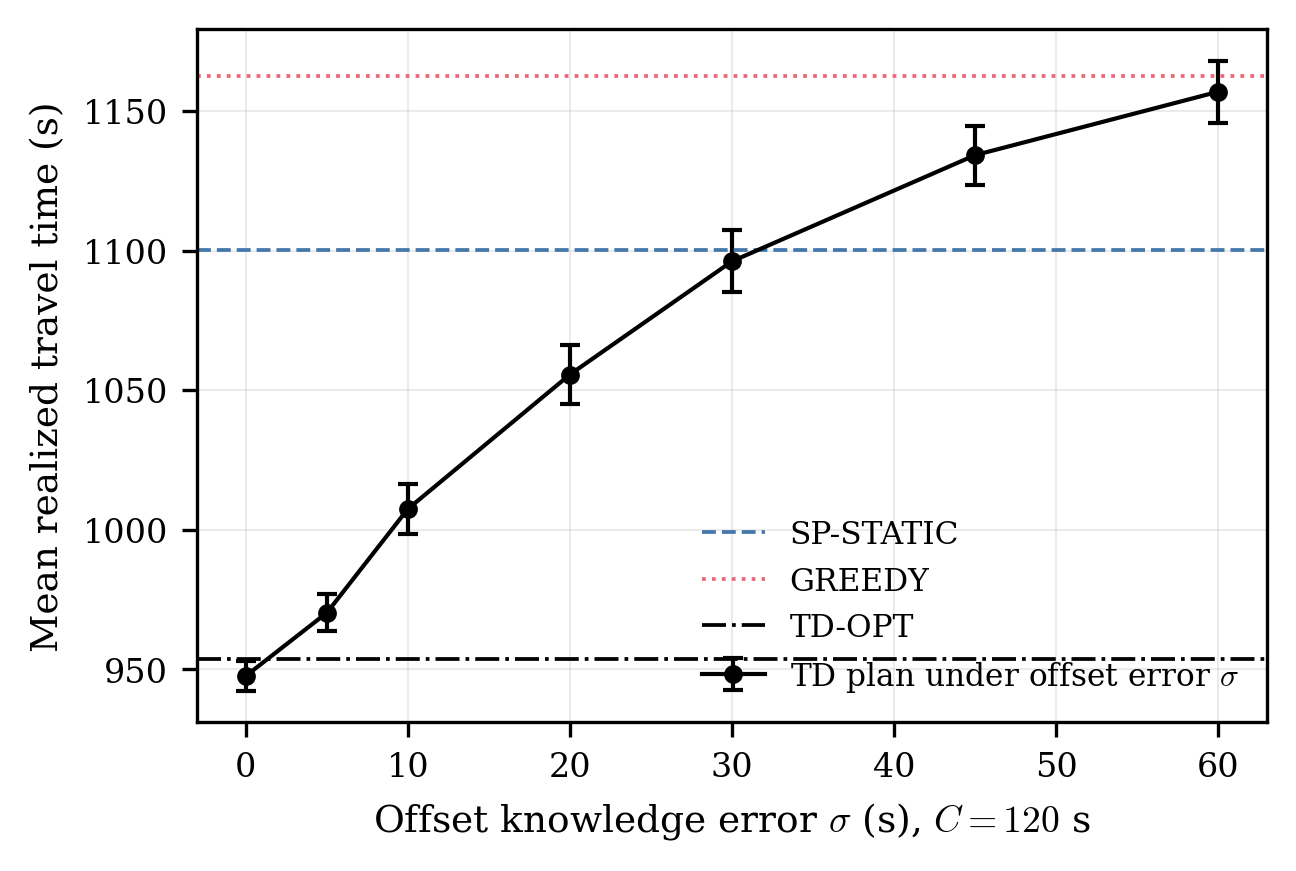
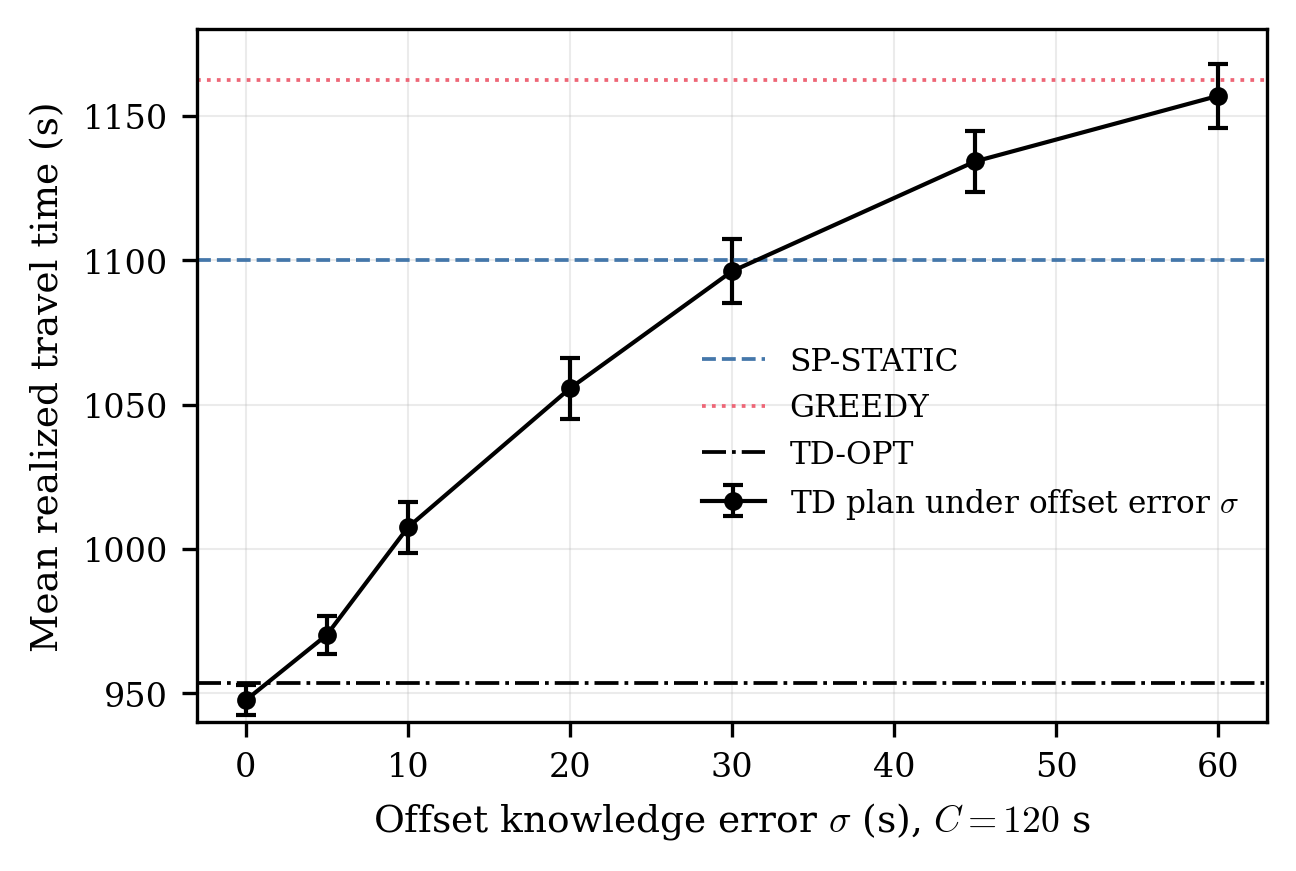
feat: add Gini-based heterogeneity analysis and update author list
- add gini_grid.py / gini_verify.py: Gini mean-difference sweep across
  uniform, triangular, and lognormal link-time families
- add lak_monotonicity.py and p4_diagnostic.py with their result JSONs
- make_figures.py: fig3a now plots GREEDY-SP advantage against the Gini
  mean difference from gini_grid_results.csv; fix fig2 legend and y-limits
- extend_lookahead.py: guard the driver under __main__ so it is importable
- README.md / CITATION.cff: add co-authors Zheng Chen, Xing Liu, Zeshui Xu

diff --git a/extend_lookahead.py b/extend_lookahead.py
@@ -59,48 +59,49 @@ def mean_ci(xs):
     var=sum((x-m)**2 for x in xs)/(n-1)
     return m,1.96*math.sqrt(var/n)
 
-C,gs,gl=120.0,40.0,20.0
-tm=sr.Timing(C=C,gs=gs,gl=gl,straight_first=True,rtor=True)
-N=8; orig=(N-1,0); dest=(0,N-1)
-deps=[q*C/8 for q in range(8)]
-ks=[1,2,3,4,5]; sigmas=[0,5,10]
-res={(k,s):[] for k in ks for s in sigmas}
-opt=[]; stat=[]
-for i in range(40):
-    rng=random.Random(1000+i)
-    net=sr.Net(N,rng,C=C,link_lo=40.0,link_hi=90.0,offset_mode="random")
-    V=static_V(net,tm,dest)
-    p_st=sr.static_route(net,tm,orig,dest,use_ewait=True)
-    prng=random.Random(70000+i)
-    pofs={s:({kk:(o+prng.uniform(-s,s))%C for kk,o in net.offset.items()} if s>0 else net.offset) for s in sigmas}
-    for t0 in deps:
-        stat.append(sr.evaluate(net,tm,p_st,t0)["time"])
-        op,_=sr.td_route(net,tm,orig,dest,t0)
-        opt.append(sr.evaluate(net,tm,op,t0)["time"])
-        for k in ks:
-            for s in sigmas:
-                T=la_route_noisy(net,tm,orig,dest,t0,k,V,pofs[s])-t0
-                res[(k,s)].append(T)
-sm,_=mean_ci(stat); om,_=mean_ci(opt)
-sgap,_=mean_ci([(a-b)/b*100 for a,b in zip(stat,opt)])
-print(f"SP-STATIC gap {sgap:.2f}%   TD-OPT {om:.1f}s")
-print(f"{'k':>3s} " + " ".join(f"sigma={s:>2d}gap%" for s in sigmas))
-curves={s:[] for s in sigmas}
-for k in ks:
-    row=f"{k:3d} "
-    for s in sigmas:
-        g,gci=mean_ci([(a-b)/b*100 for a,b in zip(res[(k,s)],opt)])
-        curves[s].append((k,g,gci))
-        row+=f"  {g:5.2f}+-{gci:4.2f}"
-    print(row)
-plt.figure(figsize=(6.5,4))
-plt.axhline(sgap,color="k",linestyle="--",linewidth=1)
-plt.text(4.4,sgap," SP-STATIC",fontsize=8,va="bottom")
-for s,mk in ((0,"o"),(5,"s"),(10,"^")):
-    xs=[c[0] for c in curves[s]]; ys=[c[1] for c in curves[s]]; es=[c[2] for c in curves[s]]
-    plt.errorbar(xs,ys,yerr=es,marker=mk,label=f"countdown error sigma={s}s")
-plt.xlabel("Lookahead depth k"); plt.ylabel("Gap vs TD-OPT (%)")
-plt.title("Depth and accuracy of phase information (hetero, N=8, n=320)")
-plt.legend(fontsize=8); plt.xticks(ks); plt.tight_layout()
-plt.savefig("/home/claude/fig6_lookahead_noisy.png",dpi=150)
-print("saved fig6")
+if __name__ == "__main__":
+    C,gs,gl=120.0,40.0,20.0
+    tm=sr.Timing(C=C,gs=gs,gl=gl,straight_first=True,rtor=True)
+    N=8; orig=(N-1,0); dest=(0,N-1)
+    deps=[q*C/8 for q in range(8)]
+    ks=[1,2,3,4,5]; sigmas=[0,5,10]
+    res={(k,s):[] for k in ks for s in sigmas}
+    opt=[]; stat=[]
+    for i in range(40):
+        rng=random.Random(1000+i)
+        net=sr.Net(N,rng,C=C,link_lo=40.0,link_hi=90.0,offset_mode="random")
+        V=static_V(net,tm,dest)
+        p_st=sr.static_route(net,tm,orig,dest,use_ewait=True)
+        prng=random.Random(70000+i)
+        pofs={s:({kk:(o+prng.uniform(-s,s))%C for kk,o in net.offset.items()} if s>0 else net.offset) for s in sigmas}
+        for t0 in deps:
+            stat.append(sr.evaluate(net,tm,p_st,t0)["time"])
+            op,_=sr.td_route(net,tm,orig,dest,t0)
+            opt.append(sr.evaluate(net,tm,op,t0)["time"])
+            for k in ks:
+                for s in sigmas:
+                    T=la_route_noisy(net,tm,orig,dest,t0,k,V,pofs[s])-t0
+                    res[(k,s)].append(T)
+    sm,_=mean_ci(stat); om,_=mean_ci(opt)
+    sgap,_=mean_ci([(a-b)/b*100 for a,b in zip(stat,opt)])
+    print(f"SP-STATIC gap {sgap:.2f}%   TD-OPT {om:.1f}s")
+    print(f"{'k':>3s} " + " ".join(f"sigma={s:>2d}gap%" for s in sigmas))
+    curves={s:[] for s in sigmas}
+    for k in ks:
+        row=f"{k:3d} "
+        for s in sigmas:
+            g,gci=mean_ci([(a-b)/b*100 for a,b in zip(res[(k,s)],opt)])
+            curves[s].append((k,g,gci))
+            row+=f"  {g:5.2f}+-{gci:4.2f}"
+        print(row)
+    plt.figure(figsize=(6.5,4))
+    plt.axhline(sgap,color="k",linestyle="--",linewidth=1)
+    plt.text(4.4,sgap," SP-STATIC",fontsize=8,va="bottom")
+    for s,mk in ((0,"o"),(5,"s"),(10,"^")):
+        xs=[c[0] for c in curves[s]]; ys=[c[1] for c in curves[s]]; es=[c[2] for c in curves[s]]
+        plt.errorbar(xs,ys,yerr=es,marker=mk,label=f"countdown error sigma={s}s")
+    plt.xlabel("Lookahead depth k"); plt.ylabel("Gap vs TD-OPT (%)")
+    plt.title("Depth and accuracy of phase information (hetero, N=8, n=320)")
+    plt.legend(fontsize=8); plt.xticks(ks); plt.tight_layout()
+    plt.savefig("/home/claude/fig6_lookahead_noisy.png",dpi=150)
+    print("saved fig6")

diff --git a/p4_diagnostic.py b/p4_diagnostic.py
@@ -1,0 +1,71 @@
+"""Diagnostic for the coupling bound (Prop: coupled sensitivity to offset error).
+For each VOI instance: plan under o_hat, execute path p_hat; trace both timelines
+along p_hat; classify crossings matched/mismatched; check
+|g_hat - g| <= sigma + sum r_m * M and the matched-only case |g_hat - g| <= sigma."""
+import random, math, json
+import signal_routing as sr
+
+C, gs, gl = 120.0, 40.0, 20.0
+tm = sr.Timing(C=C, gs=gs, gl=gl, straight_first=True, rtor=True)
+N = 8; orig = (N-1, 0); dest = (0, N-1); deps = [k*C/8 for k in range(8)]
+SIGMAS = [5, 10, 20, 30, 45, 60]
+
+def trace(net, path, t0):
+    """per-crossing (movement, arrival, wait, passage, red_dur) under net offsets."""
+    u, v = path[0]
+    t = t0 + net.link_t(u, v)
+    rec = []
+    for i in range(1, len(path)):
+        pu, pv = path[i-1]; cu, cv = path[i]
+        h = (pv[0]-pu[0], pv[1]-pu[1]); d = (cv[0]-cu[0], cv[1]-cu[1])
+        m = sr.move_type(h, d)
+        ax = sr.axis_of(h)
+        wt = tm.wait(t, net.offset[cu], ax, m)
+        g = tm._window(ax, m)[1] if hasattr(tm, "_window") else None
+        # red duration for this movement
+        if m == "R" and tm.rtor: rdur = 0.0
+        elif m == "L": rdur = C - gl
+        else: rdur = C - gs
+        rec.append((m, t, wt, t + wt, rdur))
+        t = t + wt + net.t_cross + net.link_t(cu, cv)
+    return rec, t - t0
+
+viol = 0; total = 0; zero_mm = 0; zero_mm_maxdev = 0.0
+tight = []; mmrate = {}
+for sig in SIGMAS:
+    mm_cross = 0; n_cross = 0
+    for i in range(40):
+        rng = random.Random(1000+i)
+        net = sr.Net(N, rng, C=C, link_lo=40.0, link_hi=90.0, offset_mode="random")
+        prng = random.Random(50000+1000*sig+i)
+        net_hat = sr.Net(N, random.Random(1000+i), C=C, link_lo=40.0, link_hi=90.0, offset_mode="random")
+        for node in net_hat.offset:
+            net_hat.offset[node] = (net.offset[node] + prng.uniform(-sig, sig)) % C
+        for t0 in deps:
+            p_hat, _ = sr.td_route(net_hat, tm, orig, dest, t0)
+            rec_h, g_hat = trace(net_hat, p_hat, t0)
+            rec_t, g_true = trace(net, p_hat, t0)
+            dev = abs(g_hat - g_true)
+            bound = sig; M = 0
+            for (mh, ah, wh, ph, rh), (mt, at_, wt_, pt, rt) in zip(rec_h, rec_t):
+                green_h = wh <= 1e-9; green_t = wt_ <= 1e-9
+                matched = (green_h and green_t) or ((not green_h) and (not green_t) and abs(ph - pt) <= sig + 1e-6)
+                if not matched:
+                    M += 1; bound += rh
+                    mm_cross += 1
+                n_cross += 1
+            total += 1
+            if dev > bound + 1e-6: viol += 1
+            if M == 0:
+                zero_mm += 1
+                zero_mm_maxdev = max(zero_mm_maxdev, dev)
+            else:
+                tight.append(dev / bound)
+    mmrate[sig] = mm_cross / n_cross
+print(f"instances: {total}  bound violations: {viol}")
+print(f"zero-mismatch instances: {zero_mm}  max |g_hat-g| there: {zero_mm_maxdev:.3f} s (must be <= sigma)")
+ts = sorted(tight)
+print(f"with mismatches: n={len(tight)}  tightness dev/bound median {ts[len(ts)//2]:.3f}  p90 {ts[int(.9*len(ts))]:.3f}  max {ts[-1]:.3f}")
+for s in SIGMAS: print(f"  sigma={s:2d}: mismatch rate per crossing {mmrate[s]:.4f}  (heuristic 2*sigma/C = {2*s/C:.4f})")
+json.dump({"violations": viol, "total": total, "zero_mm": zero_mm,
+           "zero_mm_maxdev": zero_mm_maxdev, "mmrate": mmrate}, open("p4_diag.json","w"))

diff --git a/gini_grid.py b/gini_grid.py
@@ -1,0 +1,78 @@
+"""Grid-level test of the Gini law: greedy-vs-static advantage against Delta
+for three link-time families matched in mean (65 s). Prediction: one line,
+slope about -J/2 per unit Delta (J=14 on the 8x8 corner trip)."""
+import random, math
+import signal_routing as sr
+
+C, gs, gl, MU = 120.0, 40.0, 20.0, 65.0
+tm = sr.Timing(C=C, gs=gs, gl=gl, straight_first=True, rtor=True)
+N = 8; orig = (N-1, 0); dest = (0, N-1); deps = [k*C/8 for k in range(8)]
+
+def lognormal_params(mean, sd):
+    s2 = math.log(1 + (sd/mean)**2)
+    return math.log(mean) - s2/2, math.sqrt(s2)
+
+def make_sampler(fam, par, rng):
+    if fam == "uniform":    return lambda: MU + rng.uniform(-par, par)
+    if fam == "triangular": return lambda: rng.triangular(MU-par, MU+par)
+    if fam == "lognormal":
+        m, s = lognormal_params(MU, par)
+        return lambda: max(5.0, rng.lognormvariate(m, s))
+    raise ValueError(fam)
+
+def delta_of(fam, par, rng, n=400000):
+    f = make_sampler(fam, par, rng)
+    return sum(abs(f()-f()) for _ in range(n)) / n
+
+def mean_ci(xs):
+    n=len(xs); m=sum(xs)/n
+    v=sum((x-m)**2 for x in xs)/(n-1)
+    return m, 1.96*math.sqrt(v/n)
+
+def net_with_sampler(seed, fam, par):
+    rng = random.Random(seed)
+    net = sr.Net(N, rng, C=C, link_lo=MU, link_hi=MU, offset_mode="random")
+    srng = random.Random(seed + 777)
+    f = make_sampler(fam, par, srng)
+    for k in net.tau: net.tau[k] = f()
+    return net
+
+cells = [("uniform",[5,10,15,20,25]), ("triangular",[8,15,22,30,37]),
+         ("lognormal",[4,8,12,16,20])]
+print("family        par    Delta    adv(s)   ci")
+rows=[]
+for fam, pars in cells:
+    for par in pars:
+        drng = random.Random(hash((fam,par)) % 10**6)
+        Delta = delta_of(fam, par, drng)
+        adv=[]
+        for i in range(80):
+            net = net_with_sampler(1000+i, fam, par)
+            p = sr.static_route(net, tm, orig, dest, use_ewait=True)
+            for t0 in deps:
+                a = sr.evaluate(net, tm, p, t0)["time"]
+                b = sr.evaluate(net, tm, sr.greedy_route(net, tm, orig, dest, t0), t0)["time"]
+                adv.append(a-b)
+        m, ci = mean_ci(adv)
+        rows.append((fam, Delta, m, ci))
+        print(f"{fam:12s} {par:5.0f}  {Delta:6.2f}  {m:8.2f}  {ci:5.2f}")
+
+import csv
+w=csv.writer(open("gini_grid_results.csv","w")); w.writerow(["family","Delta","adv","ci"])
+for r in rows: w.writerow(r)
+# pooled OLS of advantage on Delta across all families
+xs=[r[1] for r in rows]; ys=[r[2] for r in rows]
+mx=sum(xs)/len(xs); my=sum(ys)/len(ys)
+sl=sum((x-mx)*(y-my) for x,y in zip(xs,ys))/sum((x-mx)**2 for x in xs)
+ic=my-sl*mx
+# per-family slopes
+for fam,_ in cells:
+    fx=[r[1] for r in rows if r[0]==fam]; fy=[r[2] for r in rows if r[0]==fam]
+    fmx=sum(fx)/len(fx); fmy=sum(fy)/len(fy)
+    sxx=sum((x-fmx)**2 for x in fx)
+    fsl=sum((x-fmx)*(y-fmy) for x,y in zip(fx,fy))/sxx
+    fic=fmy-fsl*fmx
+    res=[y-(fic+fsl*x) for x,y in zip(fx,fy)]
+    se=math.sqrt(sum(e*e for e in res)/(len(fx)-2)/sxx)
+    print(f"slope[{fam}] = {fsl:.3f} +- {1.96*se:.3f} per unit Delta")
+print(f"pooled slope = {sl:.3f} per unit Delta (prediction -J/2 = -7.0), intercept {ic:.2f}")

diff --git a/make_figures.py b/make_figures.py
@@ -69,33 +69,26 @@ for m,c,ls in (("SP-STATIC","st","--"),("GREEDY","gr",":"),("TD-OPT","opt","-.")
     ax.axhline(t,color=COL[c],ls=ls,lw=.9,label=m)
 ax.set_xlabel("Offset knowledge error $\\sigma$ (s), $C=120$ s")
 ax.set_ylabel("Mean realized travel time (s)")
-ax.legend(loc="lower right")
+ax.set_ylim(940,1180)
+ax.legend(loc="lower right", bbox_to_anchor=(1.0, 0.25))
 fig.savefig("figures/fig2_voi.png"); plt.close(fig)
 
 # Fig 3: scaling, two panels (a heterogeneity, b grid size)
-spreads=[0,5,10,15,20,25]; pts=[]
-for h in spreads:
-    adv=[]
-    for i in range(40):
-        rng=random.Random(1000+i)
-        net=sr.Net(N,rng,C=C,link_lo=65.0-h,link_hi=65.0+h,offset_mode="random")
-        p=sr.static_route(net,tm,orig,dest,use_ewait=True)
-        for t0 in deps:
-            a=sr.evaluate(net,tm,p,t0)["time"]
-            b=sr.evaluate(net,tm,sr.greedy_route(net,tm,orig,dest,t0),t0)["time"]
-            adv.append(a-b)
-    pts.append((h,)+mean_ci(adv))
+rows2=[]
+import csv as _csv
+rows2=list(_csv.DictReader(open("gini_grid_results.csv")))
 fig,(a1,a2)=plt.subplots(1,2,figsize=(6.9,2.9))
-a1.errorbar([p[0] for p in pts],[p[1] for p in pts],yerr=[p[2] for p in pts],
-            marker="o",ms=4,lw=1,capsize=2.5,color=COL["la"],label="simulated advantage")
-mh=sum(p[0] for p in pts)/6; my=sum(p[1] for p in pts)/6
-sl=sum((p[0]-mh)*(p[1]-my) for p in pts)/sum((p[0]-mh)**2 for p in pts)
-a1.plot([0,25],[my+sl*(x-mh) for x in (0,25)],ls="--",lw=1,color=COL["opt"],
-        label=f"OLS slope ${sl:.2f}$ s/s")
-a1.plot([0,25],[my-14/3*(x-mh) for x in (0,25)],ls=":",lw=1,color=COL["st"],
-        label="predicted $-J/3=-4.67$")
+sty={"uniform":("#4477AA","o"),"triangular":("#228833","s"),"lognormal":("#CCBB44","^")}
+for fam,(c,mk) in sty.items():
+    fx=[float(r["Delta"]) for r in rows2 if r["family"]==fam]
+    fy=[float(r["adv"]) for r in rows2 if r["family"]==fam]
+    fe=[float(r["ci"]) for r in rows2 if r["family"]==fam]
+    a1.errorbar(fx,fy,yerr=fe,fmt=mk,ms=4,elinewidth=1,capsize=2.5,color=c,label=fam)
+ax_=[float(r["Delta"]) for r in rows2]; ay_=[float(r["adv"]) for r in rows2]
+cx=sum(ax_)/len(ax_); cy=sum(ay_)/len(ay_)
+a1.plot([2,23],[cy-7*(x-cx) for x in (2,23)],ls=":",lw=1,color="#000000",label="prediction slope $-J/2$")
 a1.axhline(0,color="k",lw=.7)
-a1.set_xlabel("Link-time half-width $h$ (s)")
+a1.set_xlabel("Gini mean difference $\\Delta$ (s)")
 a1.set_ylabel("GREEDY $-$ SP-STATIC (s)")
 a1.legend(loc="lower left")
 grids=[5,8,12]
@@ -112,7 +105,6 @@ for ax_,lab in ((a1,"a"),(a2,"b")):
     ax_.text(0.02,1.03,lab,transform=ax_.transAxes,fontweight="bold",fontsize=10)
 fig.tight_layout()
 fig.savefig("figures/fig3_scaling.png"); plt.close(fig)
-print("fig3 slope",round(sl,3))
 
 # Fig 4: lookahead, two panels (a depth sigma=0; b depth x accuracy)
 het=[16.22,9.65,5.33,3.55,2.76,1.38]; hetci=[1.07,.93,.69,.57,.50,.40]

diff --git a/gini_verify.py b/gini_verify.py
@@ -1,0 +1,40 @@
+"""Verify the general ladder law A = rho(1-rho)r/2 - Delta/2 (Delta = Gini mean
+difference E|X-Y|) beyond the uniform family. Distributions matched in mean."""
+import random, math
+C, r, mu = 120.0, 80.0, 65.0
+rho = r / C
+N = 2_000_000
+rng = random.Random(7)
+
+def lognormal_params(mean, sd):
+    s2 = math.log(1 + (sd / mean) ** 2)
+    return math.log(mean) - s2 / 2, math.sqrt(s2)
+
+MLN, SLN = lognormal_params(mu, 15.0)
+dists = {
+    "uniform h=10":    lambda: mu + rng.uniform(-10, 10),
+    "uniform h=25":    lambda: mu + rng.uniform(-25, 25),
+    "triangular h=15": lambda: rng.triangular(mu - 15, mu + 15),
+    "lognormal sd=15": lambda: rng.lognormvariate(MLN, SLN),
+}
+print(f"rho={rho:.4f}  rho(1-rho)r/2={rho*(1-rho)*r/2:.4f}")
+for name, F in dists.items():
+    sA = sD = sA2 = 0.0
+    for _ in range(N):
+        x, y = F(), F()
+        red1, red2 = rng.random() < rho, rng.random() < rho
+        res1, res2 = rng.uniform(0, r), rng.uniform(0, r)
+        cmin, csec = (x, y) if x <= y else (y, x)
+        red_c, res_c = (red1, res1) if x <= y else (red2, res2)
+        static = cmin + (res_c if red_c else 0.0)
+        if not red1:   greedy = x
+        elif not red2: greedy = y
+        else:          greedy = res1 + x
+        a = static - greedy
+        d = abs(x - y)
+        sA += a; sA2 += a * a; sD += d
+    A_sim = sA / N
+    se = math.sqrt((sA2 / N - A_sim ** 2) / N) * 1.96
+    Delta = sD / N
+    A_pred = rho * (1 - rho) * r / 2 - Delta / 2
+    print(f"{name:18s} Delta={Delta:7.3f}  A_sim={A_sim:7.4f}+-{se:.4f}  A_pred={A_pred:7.4f}  |diff|={abs(A_sim-A_pred):.4f}")

diff --git a/lak_monotonicity.py b/lak_monotonicity.py
@@ -1,0 +1,28 @@
+"""Pointwise monotonicity audit of rolling LA-k (sigma = 0).
+Fresh recompute; checks LA-k >= TD-OPT per instance and counts adjacent-depth
+pairs where the deeper policy is slower. Backs the remark in the paper."""
+import random, statistics
+import signal_routing as sr, lookahead as la, extend_lookahead as el
+
+C, gs, gl = 120.0, 40.0, 20.0
+tm = sr.Timing(C=C, gs=gs, gl=gl, straight_first=True, rtor=True)
+N = 8; orig = (N-1, 0); dest = (0, N-1); deps = [k*C/8 for k in range(8)]
+KS = [1, 2, 3, 4, 5]
+tt = {}; lt = {k: {} for k in KS}; sanity = 0
+for i in range(40):
+    rng = random.Random(1000+i)
+    net = sr.Net(N, rng, C=C, link_lo=40.0, link_hi=90.0, offset_mode="random")
+    V = la.static_V(net, tm, dest)
+    for t0 in deps:
+        p, _ = sr.td_route(net, tm, orig, dest, t0)
+        tt[(i, t0)] = sr.evaluate(net, tm, p, t0)["time"]
+        for k in KS:
+            T = el.la_route_noisy(net, tm, orig, dest, t0, k, V, net.offset) - t0
+            lt[k][(i, t0)] = T
+            if T < tt[(i, t0)] - 1e-6: sanity += 1
+viol = [(k, lt[k+1][key]-lt[k][key]) for key in tt for k in KS[:-1]
+        if lt[k+1][key]-lt[k][key] > 1e-6]
+print(f"sanity LA-k < TD-OPT violations: {sanity} (must be 0)")
+print(f"adjacent-depth pairs: {len(tt)*4}  deeper-slower: {len(viol)} "
+      f"({len(viol)/(len(tt)*4)*100:.1f}%)  mean +{statistics.mean(v[1] for v in viol):.1f}s  "
+      f"max +{max(v[1] for v in viol):.1f}s")

diff --git a/README.md b/README.md
@@ -3,7 +3,7 @@
 Companion code for the paper:
 
 > **Routing Through Traffic Signals: The Value, Depth, and Accuracy of Phase Information**
-> Junbo Jacob Lian, working paper, 2026.
+> Junbo Jacob Lian, Zheng Chen, Xing Liu, and Zeshui Xu, working paper, 2026.
 
 Navigation systems route with traffic signals summarized as static average turn
 penalties; real-time phase information is used only for display and speed advisory.
@@ -122,7 +122,7 @@ MIT. See `LICENSE`.
 
 ```bibtex
 @unpublished{lian2026signals,
-  author = {Lian, Junbo Jacob},
+  author = {Lian, Junbo Jacob and Chen, Zheng and Liu, Xing and Xu, Zeshui},
   title  = {Routing Through Traffic Signals: The Value, Depth, and Accuracy of Phase Information},
   note   = {Working paper},
   year   = {2026}
